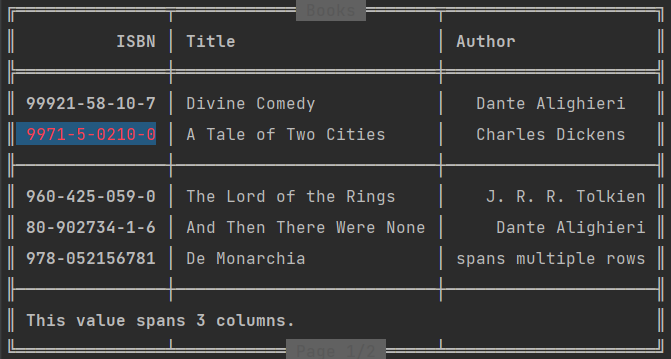
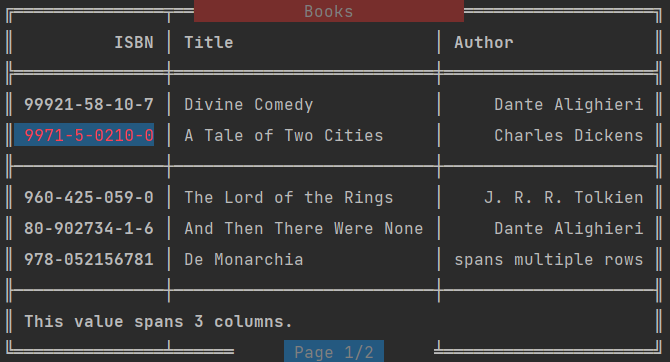
Replaces <hr> with border attribute for table row separator. Now you can use <tr border="1">,  <tr border="2">, ...
Added ability to configure title for header and footer.
<thead title="Books" class="bg-red text-color-white px-10">
<tfoot title="Page 1/2" class="mx-5 bg-blue">

diff --git a/tests/render.php b/tests/render.php
@@ -34,7 +34,7 @@ HTML);
 it('can render table to a string', function () {
     $html = (new HtmlRenderer())->parse(<<<HTML
 <table style="box-double">
-    <thead title="Books">
+    <thead title="Books" class="bg-red text-color-white px-10">
         <tr>
             <th align="right">ISBN</th>
             <th>Title</th>
@@ -45,14 +45,13 @@ it('can render table to a string', function () {
         <tr>
             <th align="right">99921-58-10-7</th>
             <td>Divine Comedy</td>
-            <td align="center">Dante Alighieri</td>
+            <td align="right">Dante Alighieri</td>
         </tr>
-        <tr>
+        <tr border="1">
             <th class="bg-blue text-color-red" align="right">9971-5-0210-0</th>
             <td>A Tale of Two Cities</td>
-            <td align="center">Charles Dickens</td>
+            <td align="right">Charles Dickens</td>
         </tr>
-        <hr>
         <tr>
             <th align="right">960-425-059-0</th>
             <td>The Lord of the Rings</td>
@@ -68,7 +67,7 @@ it('can render table to a string', function () {
             <td>De Monarchia</td>
         </tr>
     </tbody>
-    <tfoot title="Page 1/2">
+    <tfoot title="Page 1/2" class="mx-5 bg-blue">
         <tr>
             <th colspan="3">This value spans 3 columns.</th>
         </tr>
@@ -76,19 +75,20 @@ it('can render table to a string', function () {
 </table>
 HTML);
 
+    echo $html->toString();
     expect($html->toString())->toBe(<<<'OUT'
-╔═══════════════╤════════════[30;47;1m Books [39;49;22m═══════╤═════════════════════╗
+╔═══════════════╤══[37;41m           Books           [39;49m═══════════════════╗
 ║[39;49m          [1mISBN[0m [39;49m│[39;49m [1mTitle[0m                    [39;49m│[39;49m [1mAuthor[0m              [39;49m║
 ╠═══════════════╪══════════════════════════╪═════════════════════╣
-║[39;49m [1m99921-58-10-7[0m [39;49m│[39;49m Divine Comedy            [39;49m│[39;49m   Dante Alighieri   [39;49m║
-║[31;44m [1m9971-5-0210-0[0m [39;49m│[39;49m A Tale of Two Cities     [39;49m│[39;49m   Charles Dickens   [39;49m║
+║[39;49m [1m99921-58-10-7[0m [39;49m│[39;49m Divine Comedy            [39;49m│[39;49m     Dante Alighieri [39;49m║
+║[31;44m [1m9971-5-0210-0[0m [39;49m│[39;49m A Tale of Two Cities     [39;49m│[39;49m     Charles Dickens [39;49m║
 ╟───────────────┼──────────────────────────┼─────────────────────╢
 ║[39;49m [1m960-425-059-0[0m [39;49m│[39;49m The Lord of the Rings    [39;49m│[39;49m    J. R. R. Tolkien [39;49m║
 [39;49m║[39;49m[39;49m [1m80-902734-1-6[0m [39;49m[39;49m│[39;49m[39;49m And Then There Were None [39;49m[39;49m│[39;49m[39;49m     Dante Alighieri [39;49m[39;49m║[39;49m
 ║[39;49m [1m978-052156781[0m [39;49m│[39;49m De Monarchia             [39;49m│[39;49m spans multiple rows [39;49m║
 ╟───────────────┼──────────────────────────┼─────────────────────╢
 ║[39;49m [1mThis value spans 3 columns.[0m                                    [39;49m║
-╚═══════════════╧═══════════[30;47;1m Page 1/2 [39;49;22m═════╧═════════════════════╝
+╚═══════════════╧══════     [44m Page 1/2 [49m     ╧═════════════════════╝
 
 OUT
 );

diff --git a/src/Html/TableRenderer.php b/src/Html/TableRenderer.php
@@ -60,10 +60,6 @@ final class TableRenderer
                     $this->table->addRow($row);
                 }
             }
-
-            if ($child->nodeName === 'hr') {
-                $this->table->addRow(new TableSeparator());
-            }
         }
     }
 
@@ -72,6 +68,9 @@ final class TableRenderer
         $title = $node->getAttribute('title');
 
         if ($title !== '') {
+            $this->table->getStyle()->setHeaderTitleFormat(
+                $this->buildTitleStyle($node)
+            );
             $this->table->setHeaderTitle($title);
         }
 
@@ -89,6 +88,9 @@ final class TableRenderer
         $title = $node->getAttribute('title');
 
         if ($title !== '') {
+            $this->table->getStyle()->setFooterTitleFormat(
+                $this->buildTitleStyle($node)
+            );
             $this->table->setFooterTitle($title);
         }
 
@@ -110,8 +112,6 @@ final class TableRenderer
                 foreach ($this->parseRow($child) as $row) {
                     $this->table->addRow($row);
                 }
-            } elseif ($child->nodeName === 'hr') {
-                $this->table->addRow(new TableSeparator());
             }
         }
     }
@@ -130,7 +130,8 @@ final class TableRenderer
                 }
 
                 $row[] = new TableCell(
-                    // I need only spaces after margin, padding and width except.
+                    // I need only spaces after applying margin, padding and width except tags.
+                    // There is no place for tags, they broke cell formatting.
                     strip_tags((string) Termwind::span($child->nodeValue, $class)),
                     [
                         // Gets rowspan and colspan from tr and td tag attributes
@@ -149,6 +150,11 @@ final class TableRenderer
 
         if ($row !== []) {
             yield $row;
+        }
+
+        $border = (int) $node->getAttribute('border');
+        for ($i = $border; $i--; $i > 0) {
+            yield new TableSeparator();
         }
     }
 
@@ -182,5 +188,10 @@ final class TableRenderer
             'options' => $options === [] ? null : $options,
             'align' => $align,
         ]);
+    }
+
+    private function buildTitleStyle(DOMNode $node): string
+    {
+        return (string) Termwind::span(' %s ', $node->getAttribute('class'));
     }
 }

diff --git a/README.md b/README.md
@@ -70,7 +70,7 @@ use function Termwind\{render};
 
 render(<<<'HTML'
 <table style="box-double">
-    <thead title="Books">
+    <thead title="Books" class="bg-red text-color-white px-10">
         <tr>
             <th align="right">ISBN</th>
             <th>Title</th>
@@ -81,14 +81,13 @@ render(<<<'HTML'
         <tr>
             <th align="right">99921-58-10-7</th>
             <td>Divine Comedy</td>
-            <td align="center">Dante Alighieri</td>
+            <td align="right">Dante Alighieri</td>
         </tr>
-        <tr>
+        <tr border="1">
             <th class="bg-blue text-color-red" align="right">9971-5-0210-0</th>
             <td>A Tale of Two Cities</td>
-            <td align="center">Charles Dickens</td>
+            <td align="right">Charles Dickens</td>
         </tr>
-        <hr>
         <tr>
             <th align="right">960-425-059-0</th>
             <td>The Lord of the Rings</td>
@@ -104,7 +103,7 @@ render(<<<'HTML'
             <td>De Monarchia</td>
         </tr>
     </tbody>
-    <tfoot title="Page 1/2">
+    <tfoot title="Page 1/2" class="mx-5 bg-blue">
         <tr>
             <th colspan="3">This value spans 3 columns.</th>
         </tr>
